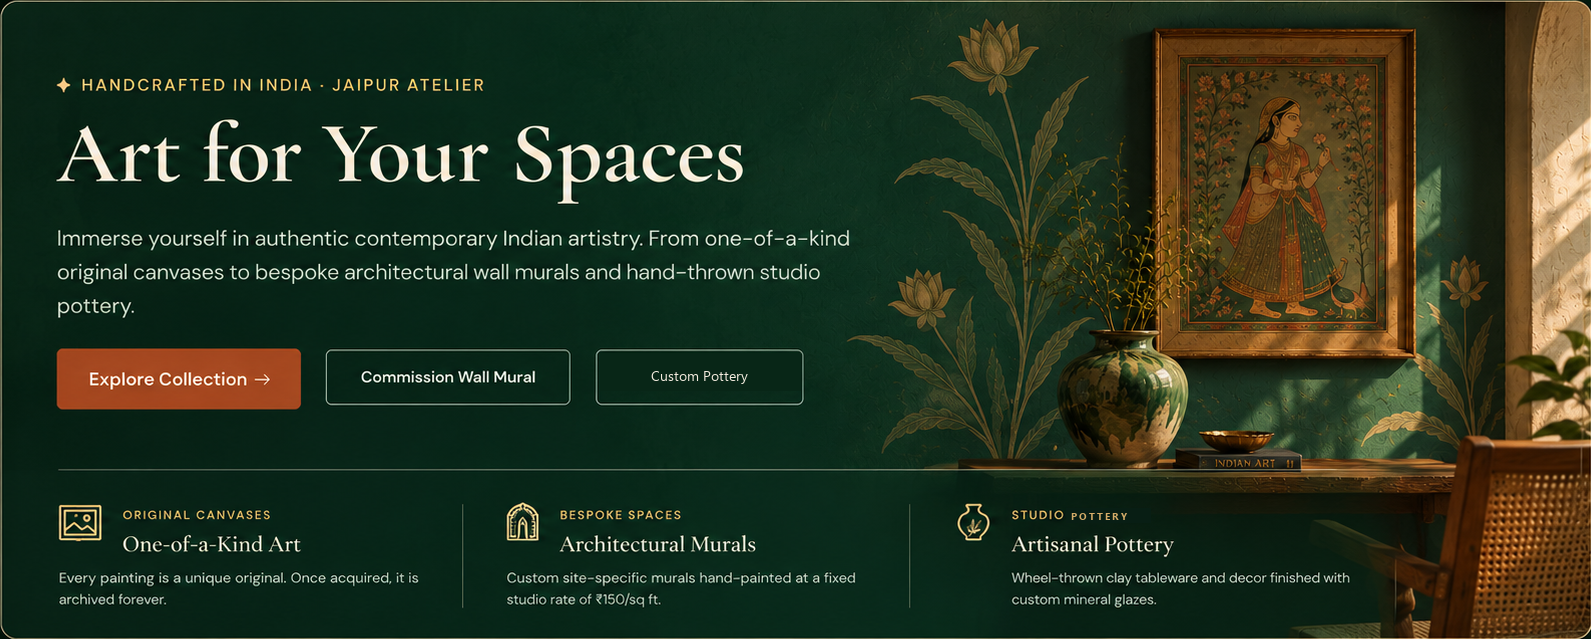
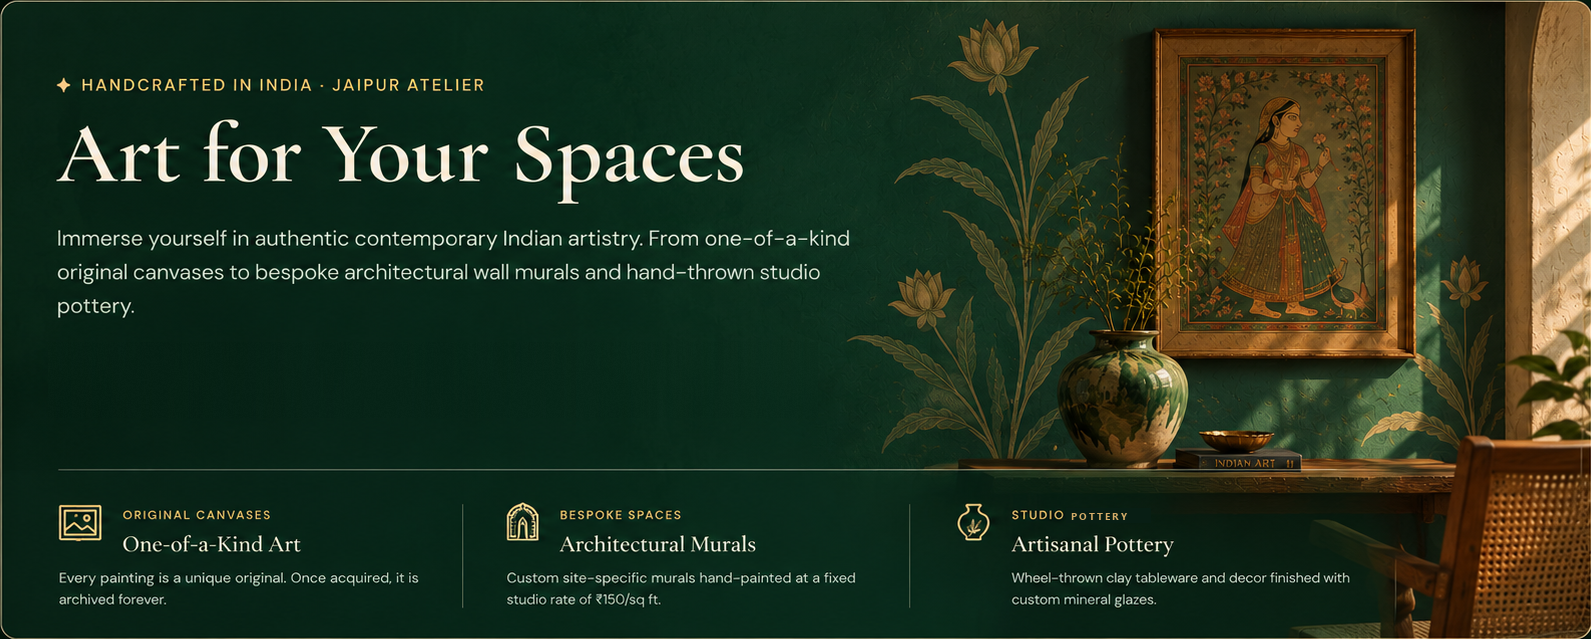
feat(hero): real elevating action buttons with synchronized text and border elevation on hover

Changed region(s): [[0.0308, 0.5352, 0.3388, 0.6541], [0.3696, 0.5352, 0.4928, 0.5947], [0.3696, 0.6244, 0.4928, 0.6541]]

diff --git a/client/src/styles.css b/client/src/styles.css
@@ -428,94 +428,109 @@ main {
   user-select: none;
 }
 
-.hero-interactive-overlay {
+/* Real HTML Action Buttons: seamlessly aligned inside the hero card */
+.hero-cta-button-strip {
   position: absolute;
-  inset: 0;
+  left: 3.58%;
+  top: 54.62%;
+  display: flex;
+  align-items: center;
+  gap: 1.15rem;
+  z-index: 10;
+}
+
+/* Base CTA Button styling */
+.btn-hero-cta {
+  display: inline-flex;
+  align-items: center;
+  justify-content: center;
+  height: 54px;
+  min-height: 54px;
+  border-radius: 6px;
+  font-family: var(--font-sans);
+  font-size: 0.96rem;
+  letter-spacing: 0.01em;
+  padding: 0 1.65rem;
+  cursor: pointer;
+  text-decoration: none;
+  white-space: nowrap;
+  outline: none;
+  border: none;
+  transition: transform 0.22s cubic-bezier(0.16, 1, 0.3, 1),
+              box-shadow 0.22s cubic-bezier(0.16, 1, 0.3, 1),
+              background-color 0.22s ease,
+              border-color 0.22s ease,
+              color 0.22s ease;
+  user-select: none;
+  -webkit-tap-highlight-color: transparent;
+}
+
+/* Button 1: Terracotta Filled Button */
+.btn-hero-cta-primary {
+  background-color: #a94e2d;
+  color: #ffffff !important;
+  font-weight: 600;
+  border: 1px solid #a94e2d;
+  box-shadow: 0 4px 14px rgba(0, 0, 0, 0.28);
+}
+
+.btn-hero-cta-primary:hover,
+.btn-hero-cta-primary:focus-visible {
+  transform: translateY(-3px);
+  background-color: #ba5733;
+  border-color: #ba5733;
+  box-shadow: 0 10px 24px rgba(169, 78, 45, 0.65), 0 0 0 1.5px rgba(255, 255, 255, 0.6);
+}
+
+.btn-hero-cta-primary:active {
+  transform: translateY(-1px) scale(0.98);
+  box-shadow: 0 3px 10px rgba(169, 78, 45, 0.5);
+}
+
+/* Buttons 2 & 3: Dark Green Outline Buttons */
+.btn-hero-cta-secondary {
+  background-color: rgba(6, 32, 20, 0.85);
+  color: #f4ecdf !important;
+  font-weight: 500;
+  border: 1px solid rgba(255, 255, 255, 0.28);
+  box-shadow: 0 4px 14px rgba(0, 0, 0, 0.25);
+  backdrop-filter: blur(4px);
+}
+
+.btn-hero-cta-secondary:hover,
+.btn-hero-cta-secondary:focus-visible {
+  transform: translateY(-3px);
+  background-color: rgba(212, 172, 104, 0.18);
+  border-color: var(--gold-antique);
+  color: #ffffff !important;
+  box-shadow: 0 10px 24px rgba(0, 0, 0, 0.45), 0 0 0 1.5px var(--gold-antique);
+}
+
+.btn-hero-cta-secondary:active {
+  transform: translateY(-1px) scale(0.98);
+  box-shadow: 0 3px 10px rgba(0, 0, 0, 0.35);
+}
+
+/* 3 Studio Pillars Hotspot Overlay across the bottom */
+.hero-pillars-overlay {
+  position: absolute;
+  left: 0;
+  right: 0;
+  bottom: 0;
+  top: 75.90%;
+  display: grid;
+  grid-template-columns: 31.5% 33% 35.5%;
+  padding: 0 2.5%;
   pointer-events: none;
   z-index: 10;
 }
 
-/* Base interactive hotspot with clear cursor and tactile transitions */
-.hero-hotspot {
-  position: absolute;
+.hero-pillar-hotspot {
   display: block;
   pointer-events: auto;
   cursor: pointer;
   border: none;
   background: transparent;
-  padding: 0;
-  margin: 0;
-  border-radius: 6px;
-  transition: all 0.22s cubic-bezier(0.16, 1, 0.3, 1);
-  outline: none;
-  text-decoration: none;
-  -webkit-tap-highlight-color: transparent;
-}
-
-/* Button 1: Explore Collection */
-.hero-hotspot-b1 {
-  left: 3.58%;
-  top: 54.62%;
-  width: 15.27%;
-  height: 7.04%;
-}
-.hero-hotspot-b1:hover,
-.hero-hotspot-b1:focus-visible {
-  background: rgba(255, 255, 255, 0.20);
-  box-shadow: 0 0 0 2.5px #FFFFFF, 0 8px 24px rgba(169, 78, 45, 0.85);
-  transform: translateY(-2px) scale(1.02);
-}
-.hero-hotspot-b1:active {
-  transform: translateY(0px) scale(0.97);
-  box-shadow: 0 0 0 1.5px #FFFFFF, 0 3px 10px rgba(169, 78, 45, 0.6);
-}
-
-/* Button 2: Commission Wall Mural */
-.hero-hotspot-b2 {
-  left: 20.43%;
-  top: 54.62%;
-  width: 15.40%;
-  height: 7.04%;
-}
-.hero-hotspot-b2:hover,
-.hero-hotspot-b2:focus-visible {
-  background: rgba(212, 172, 104, 0.20);
-  box-shadow: 0 0 0 2px var(--gold-antique), 0 8px 24px rgba(212, 172, 104, 0.5);
-  transform: translateY(-2px) scale(1.02);
-}
-.hero-hotspot-b2:active {
-  transform: translateY(0px) scale(0.97);
-  box-shadow: 0 0 0 1px var(--gold-antique), 0 3px 10px rgba(212, 172, 104, 0.35);
-}
-
-/* Button 3: Custom Pottery */
-.hero-hotspot-b3 {
-  left: 37.46%;
-  top: 54.62%;
-  width: 13.01%;
-  height: 7.04%;
-}
-.hero-hotspot-b3:hover,
-.hero-hotspot-b3:focus-visible {
-  background: rgba(212, 172, 104, 0.20);
-  box-shadow: 0 0 0 2px var(--gold-antique), 0 8px 24px rgba(212, 172, 104, 0.5);
-  transform: translateY(-2px) scale(1.02);
-}
-.hero-hotspot-b3:active {
-  transform: translateY(0px) scale(0.97);
-  box-shadow: 0 0 0 1px var(--gold-antique), 0 3px 10px rgba(212, 172, 104, 0.35);
-}
-
-/* Hotspots for 3 Pillars across the bottom */
-.hero-hotspot-pillar {
-  position: absolute;
-  display: block;
-  pointer-events: auto;
-  cursor: pointer;
-  border: none;
-  background: transparent;
-  padding: 0;
-  margin: 0;
   border-radius: 8px;
   transition: all 0.22s cubic-bezier(0.16, 1, 0.3, 1);
   outline: none;
@@ -523,39 +538,62 @@ main {
   -webkit-tap-highlight-color: transparent;
 }
 
-.hero-hotspot-p1 {
-  left: 2.51%;
-  top: 75.90%;
-  width: 29.54%;
-  height: 21.91%;
-}
-.hero-hotspot-p2 {
-  left: 33.31%;
-  top: 75.90%;
-  width: 30.17%;
-  height: 21.91%;
-}
-.hero-hotspot-p3 {
-  left: 65.37%;
-  top: 75.90%;
-  width: 32.06%;
-  height: 21.91%;
-}
-
-.hero-hotspot-pillar:hover,
-.hero-hotspot-pillar:focus-visible {
+.hero-pillar-hotspot:hover,
+.hero-pillar-hotspot:focus-visible {
   background: rgba(212, 172, 104, 0.15);
   box-shadow: inset 0 0 0 1.5px var(--gold-antique), 0 8px 24px rgba(0, 0, 0, 0.45);
   transform: translateY(-2px);
 }
-.hero-hotspot-pillar:active {
+
+.hero-pillar-hotspot:active {
   transform: translateY(0px) scale(0.99);
   background: rgba(212, 172, 104, 0.24);
+}
+
+@media (max-width: 1080px) {
+  .hero-cta-button-strip {
+    gap: 0.85rem;
+  }
+  .btn-hero-cta {
+    height: 48px;
+    min-height: 48px;
+    padding: 0 1.25rem;
+    font-size: 0.88rem;
+  }
+}
+
+@media (max-width: 820px) {
+  .hero-cta-button-strip {
+    top: 51%;
+    gap: 0.65rem;
+  }
+  .btn-hero-cta {
+    height: 42px;
+    min-height: 42px;
+    padding: 0 0.95rem;
+    font-size: 0.80rem;
+  }
 }
 
 @media (max-width: 640px) {
   .hero-master-card {
     margin-bottom: 2rem;
+  }
+  .hero-cta-button-strip {
+    position: relative;
+    left: auto;
+    top: auto;
+    width: 100%;
+    margin-top: 1rem;
+    flex-direction: column;
+    gap: 0.65rem;
+  }
+  .btn-hero-cta {
+    width: 100%;
+    justify-content: center;
+    height: 48px;
+    min-height: 48px;
+    font-size: 0.92rem;
   }
 }
 

diff --git a/client/src/pages/Gallery.jsx b/client/src/pages/Gallery.jsx
@@ -50,45 +50,51 @@ export default function Gallery() {
           HERO SECTION (Matching "hero reference.png" with 100% fidelity & full interactivity)
           ==================================================================== */}
       <section className="hero-master-card" aria-label="KĀLORA Atelier">
-        {/* Visual master art-directed scene from hero reference.png with Custom Pottery */}
+        {/* Visual master art-directed scene from hero reference.png with clean plaster wall */}
         <img
           src={heroMasterImg}
           alt="KĀLORA Atelier - Jaipur Art Studio: Art for Your Spaces"
           className="hero-master-img"
         />
 
-        {/* Interactive pixel-matched hotspot overlays with clear hover and active click response */}
-        <div className="hero-interactive-overlay">
+        {/* Real HTML Action Buttons: text and border elevate together on hover */}
+        <div className="hero-cta-button-strip">
           {/* Button 1: Explore Collection */}
           <button
             type="button"
             onClick={scrollToCollection}
-            className="hero-hotspot hero-hotspot-b1"
+            className="btn-hero-cta btn-hero-cta-primary"
             title="Explore Collection → View Available Original Canvases"
-            aria-label="Explore Collection"
-          />
+          >
+            Explore Collection →
+          </button>
 
           {/* Button 2: Commission Wall Mural */}
           <Link
             to={muralLink}
-            className="hero-hotspot hero-hotspot-b2"
+            className="btn-hero-cta btn-hero-cta-secondary"
             title={isStudio ? "Manage Mural Bookings Queue" : "Commission Wall Mural (₹150/sq ft)"}
-            aria-label={isStudio ? "Manage Mural Bookings Queue" : "Commission Wall Mural"}
-          />
+          >
+            {isStudio ? "Manage Mural Bookings" : "Commission Wall Mural"}
+          </Link>
 
           {/* Button 3: Custom Pottery */}
           <Link
             to={potteryLink}
-            className="hero-hotspot hero-hotspot-b3"
+            className="btn-hero-cta btn-hero-cta-secondary"
             title={isStudio ? "Manage Pottery Requests Queue" : "Custom Pottery → Customize Hand-Thrown Clay Pieces"}
-            aria-label={isStudio ? "Manage Pottery Requests Queue" : "Custom Pottery Studio"}
-          />
+          >
+            {isStudio ? "Manage Pottery Requests" : "Custom Pottery"}
+          </Link>
+        </div>
 
+        {/* Interactive hotspot overlays for the 3 Studio Pillars across the bottom */}
+        <div className="hero-pillars-overlay">
           {/* Pillar 1: Original Canvases */}
           <button
             type="button"
             onClick={scrollToCollection}
-            className="hero-hotspot-pillar hero-hotspot-p1"
+            className="hero-pillar-hotspot"
             title="Original Canvases → Browse One-of-a-Kind Art"
             aria-label="Original Canvases - One-of-a-Kind Art"
           />
@@ -96,7 +102,7 @@ export default function Gallery() {
           {/* Pillar 2: Bespoke Spaces */}
           <Link
             to={muralLink}
-            className="hero-hotspot-pillar hero-hotspot-p2"
+            className="hero-pillar-hotspot"
             title={isStudio ? "Bespoke Spaces → Mural Bookings Queue" : "Bespoke Spaces → Architectural Murals at ₹150/sq ft"}
             aria-label="Bespoke Spaces - Architectural Murals"
           />
@@ -104,7 +110,7 @@ export default function Gallery() {
           {/* Pillar 3: Studio Pottery */}
           <Link
             to={potteryLink}
-            className="hero-hotspot-pillar hero-hotspot-p3"
+            className="hero-pillar-hotspot"
             title={isStudio ? "Studio Pottery → Pottery Requests Queue" : "Studio Pottery → Artisanal Handcrafted Clay Pottery"}
             aria-label="Studio Pottery - Handcrafted Clay Pottery"
           />
